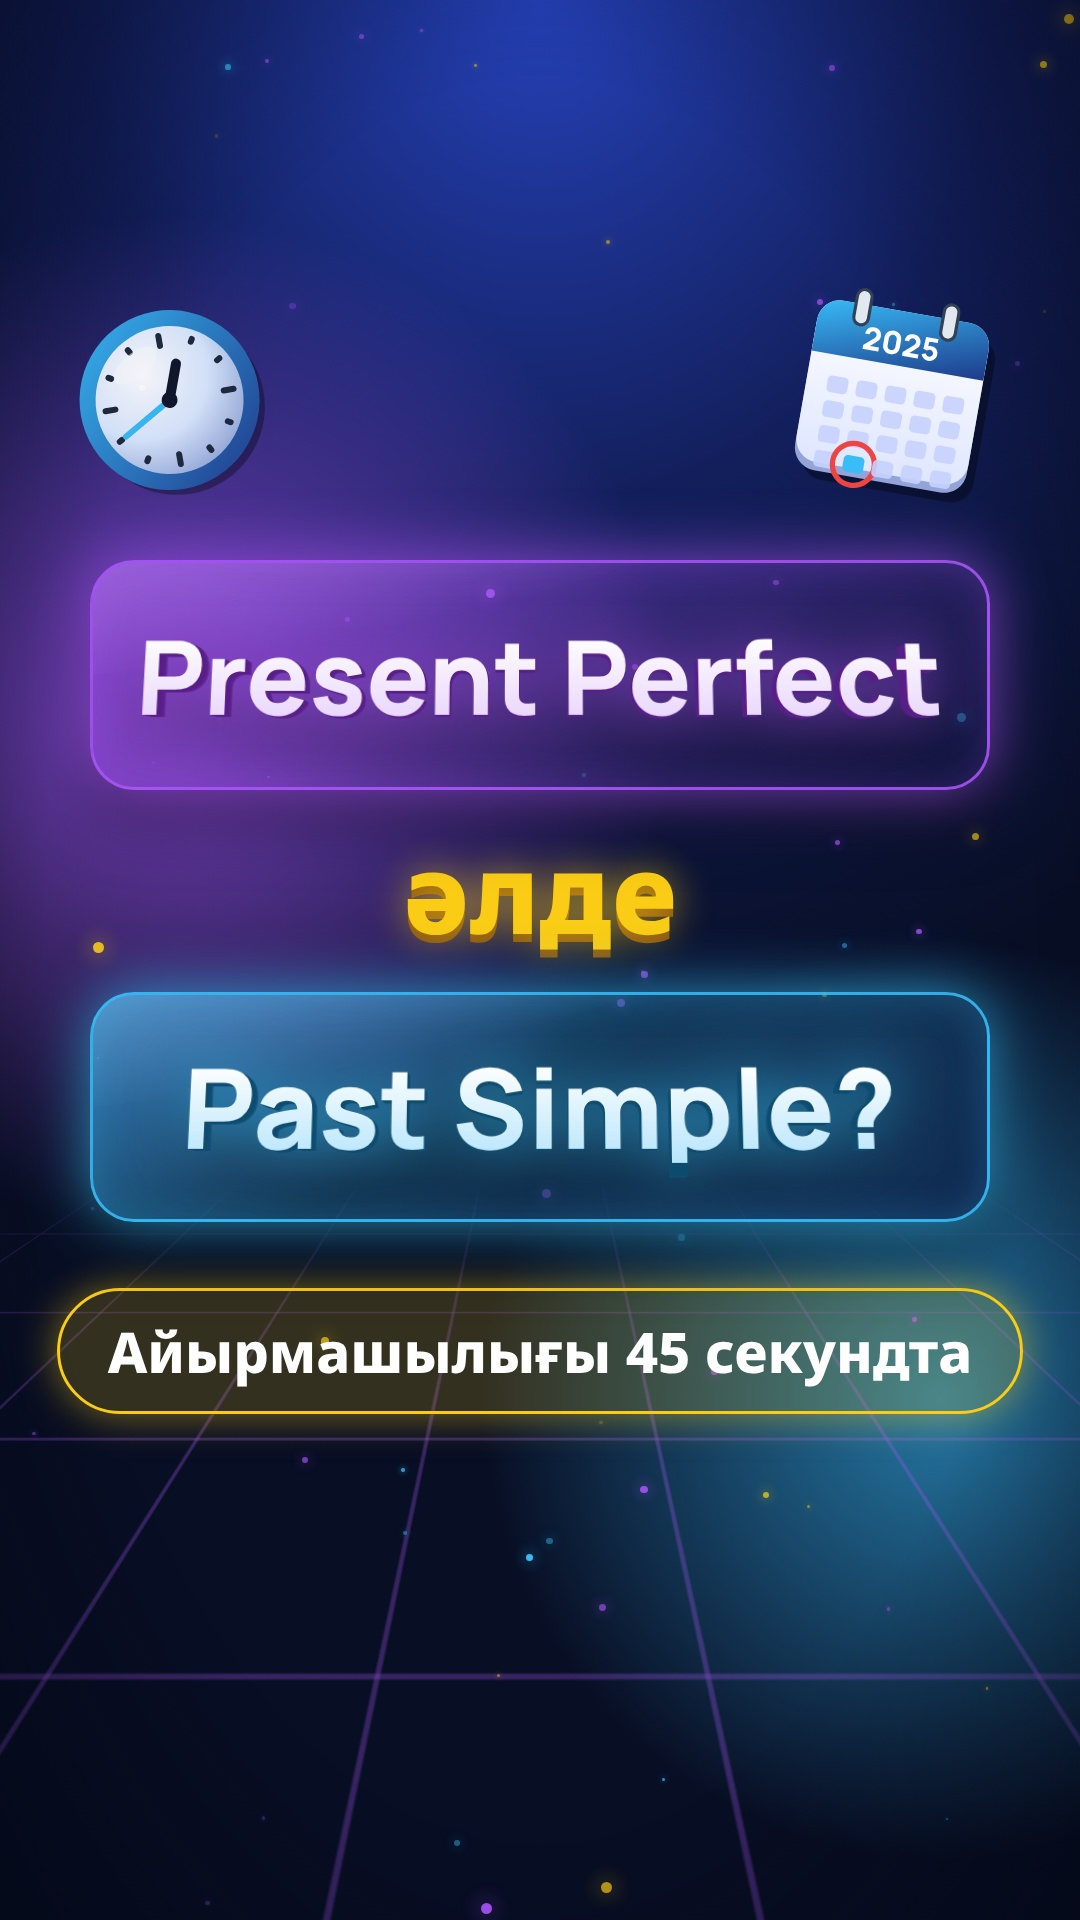
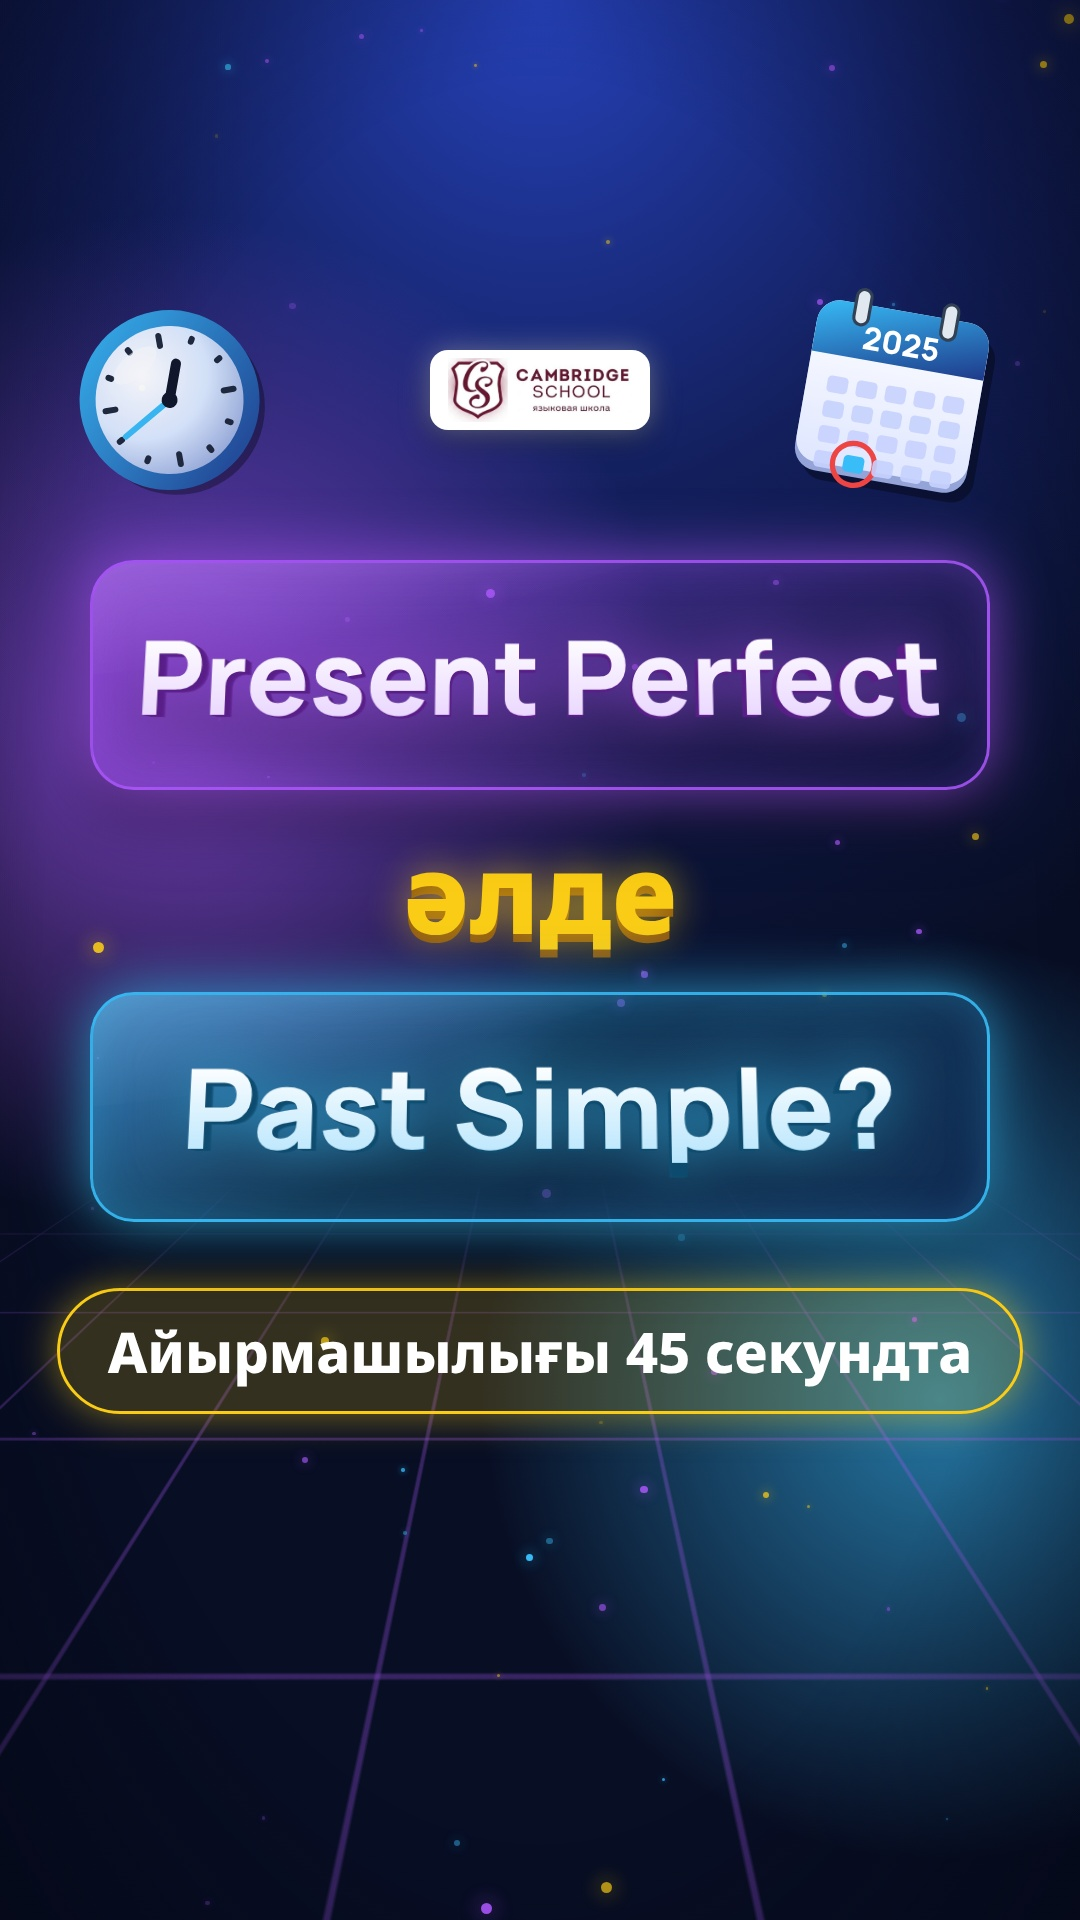
Cambridge School логосы (видео + обложка), талғамға лого ережесі
Claude-Session: https://claude.ai/code/session_017A9pfqC8CcGLJjXP8PDUnP

Changed region(s): [[0.3972, 0.1562, 0.6111, 0.25]]

diff --git a/remotion-grammar/src/components/Logo.tsx b/remotion-grammar/src/components/Logo.tsx
@@ -1,0 +1,25 @@
+import React from 'react';
+import {Img, staticFile, useCurrentFrame, useVideoConfig} from 'remotion';
+import {sp} from '../anim';
+
+/** Логотип Cambridge School: белая плашка (бордовый логотип на тёмном фоне не читается). */
+export const LogoBadge: React.FC<{top: number; h?: number; delay?: number; still?: boolean}> = ({top, h = 60, delay = 6, still}) => {
+  const f = useCurrentFrame();
+  const {fps} = useVideoConfig();
+  const p = still ? 1 : sp(f, fps, delay, {damping: 14});
+  const shine = still ? -1 : ((f - delay - 20) % 240) / 40;
+  const w = (h * 863) / 300;
+  return (
+    <div style={{position: 'absolute', top, left: 0, width: 1080, display: 'flex', justifyContent: 'center', zIndex: 50,
+      transform: `translateY(${(1 - p) * -40}px) scale(${0.8 + 0.2 * p})`, opacity: p}}>
+      <div style={{position: 'relative', padding: '8px 18px', borderRadius: 18, background: '#ffffff', overflow: 'hidden',
+        boxShadow: '0 0 28px rgba(255,255,255,0.35), 0 10px 30px rgba(0,0,0,0.45)'}}>
+        <Img src={staticFile('logo/logo-row.png')} style={{display: 'block', height: h, width: w}} />
+        {shine >= 0 && shine <= 1 && (
+          <div style={{position: 'absolute', top: 0, bottom: 0, width: 60, left: -80 + shine * (w + 160),
+            background: 'linear-gradient(90deg, transparent, rgba(255,255,255,0.75), transparent)', transform: 'skewX(-20deg)'}} />
+        )}
+      </div>
+    </div>
+  );
+};

diff --git a/remotion-grammar/src/GrammarVideo.tsx b/remotion-grammar/src/GrammarVideo.tsx
@@ -9,6 +9,10 @@ import {QuizScene} from './scenes/QuizScene';
 import {FPS, OVERLAP, SCENES, TOTAL, VOICE_CLIPS, VOICE_FILE, VOICE_VOLUME} from './timing';
 import {FONT} from './theme';
 import {Subtitles} from './components/Subtitles';
+import {LogoBadge} from './components/Logo';
+
+/** Сцены сдвинуты вниз, чтобы над заголовками поместился логотип (безопасная зона сверху). */
+const SHIFT = 90;
 
 const scene = (key: keyof typeof SCENES, El: React.FC, first = false) => {
   const s = SCENES[key];
@@ -26,11 +30,14 @@ export const GrammarVideo: React.FC = () => {
   return (
     <AbsoluteFill style={{fontFamily: FONT}}>
       <Background />
+      <AbsoluteFill style={{transform: `translateY(${SHIFT}px)`}}>
       {scene('hook', HookScene, true)}
       {scene('past', PastSimpleScene)}
       {scene('present', PresentPerfectScene)}
       {scene('rule', MainRuleScene)}
       {scene('quiz', QuizScene)}
+      </AbsoluteFill>
+      <LogoBadge top={246} h={74} />
       <Subtitles />
       {hasVoice && VOICE_CLIPS.map((c, i) => {
         const pre = Math.min(0.12, c.from), post = 0.3;

diff --git a/remotion-grammar/src/Cover.tsx b/remotion-grammar/src/Cover.tsx
@@ -4,6 +4,7 @@ import {Background} from './components/Background';
 import {GlassCard} from './components/Common';
 import {Calendar, Clock} from './components/Icons';
 import {Text3D} from './components/Text';
+import {LogoBadge} from './components/Logo';
 import {C, FONT, FONT_KZ} from './theme';
 import {hexA} from './anim';
 
@@ -11,6 +12,7 @@ import {hexA} from './anim';
 export const Cover: React.FC = () => (
   <AbsoluteFill style={{fontFamily: FONT}}>
     <Background />
+    <LogoBadge top={350} h={64} still />
     <div style={{position: 'absolute', left: 70, top: 300, transform: 'rotate(-10deg)', opacity: 0.95}}><Clock size={200} f={40} uid="c1" /></div>
     <div style={{position: 'absolute', left: 790, top: 290, transform: 'rotate(10deg)'}}><Calendar size={210} f={0} uid="c2" header="2025" circleP={1} /></div>
     <div style={{position: 'absolute', left: 0, width: 1080, top: 560, display: 'flex', flexDirection: 'column', alignItems: 'center', gap: 26}}>

diff --git a/remotion-grammar/src/timing.ts b/remotion-grammar/src/timing.ts
@@ -20,7 +20,7 @@ export const CUE = {
   hook: {cards: 0, vs: s(1.1), icons: s(0.6), camera: s(2.2), question: s(2.4)},
   past: {title: 0, line: s(0.3), marker: s(0.9), rule: s(0.6), ruleOut: s(5.2), bigben: s(1.8), calendar: s(2.3), example: s(5.6), check: s(7.3), finished: s(7.5), wiggle: s(8.3)},
   present: {title: 0, morph: 0, now: s(1.0), dot1: s(2.0), dot2: s(2.5), rule: s(0.6), ruleOut: s(5.1), example: s(5.4), bounce: s(6.45), link: s(6.6), life: s(7.6), toNow: s(8.0)},
-  rule: {header: 0, left: s(0.2), right: s(2.9), vs: s(3.6), when: s(2.3), exp: s(4.5), both: s(6.4), markers: s(6.6)},
+  rule: {header: 0, left: s(0.2), right: s(2.9), vs: s(3.6), when: s(2.3), exp: s(4.5), both: s(6.4), markers: s(6.95)},
   quiz: {title: 0, up: s(1.0), question: s(1.1), cardA: s(2.9), cardB: s(3.5), c3: s(4.0), c2: s(4.7), c1: s(5.4), wrong: s(6.1), right: s(6.34), final: s(7.3), chip: s(7.6), note: s(8.1)},
 };
 

diff --git a/remotion-grammar/src/scenes/MainRuleScene.tsx b/remotion-grammar/src/scenes/MainRuleScene.tsx
@@ -100,7 +100,7 @@ export const MainRuleScene: React.FC = () => {
       {[['yesterday', 'last year', 'in 2025'], ['ever / never', 'twice', 'already']].map((list, side) => list.map((w, i) => {
         const p = sp(f, fps, c.markers + side * 10 + i * 5, {damping: 12});
         return (
-          <div key={w} style={{position: 'absolute', left: (side ? 570 : 70), width: W, top: 1110 + i * 66, display: 'flex', justifyContent: 'center',
+          <div key={w} style={{position: 'absolute', left: (side ? 570 : 70), width: W, top: 1072 + i * 56, display: 'flex', justifyContent: 'center',
             transform: `scale(${p}) translateY(${(1 - p) * 30}px)`, opacity: Math.min(1, p * 1.5)}}>
             <Chip text={w} color={side ? C.purple : C.blue} size={36} />
           </div>

diff --git a/менің-талғамым.md b/менің-талғамым.md
@@ -5,3 +5,4 @@ Claude бұл файлды әр монтаждан бұрын оқиды. Бір
 - Тіл әрқашан қазақша, басқаша айтпасам.
 - Обложка әрқашан керек, заголовогы қазақша.
 - Рендерден кейін қазақша caption + 5–8 хэштег жаз.
+- Тілге (ағылшын, грамматика) қатысты видео жасағанда **міндетті түрде** сұра: Cambridge School логосын қосайын ба? Лого файлы: `Бастапқы/cambridge-school-logo.jpg` (ақ фон, бордо түс — қараңғы фонда ақ плашкаға қой).
